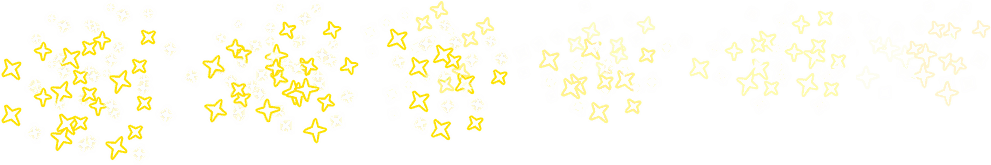
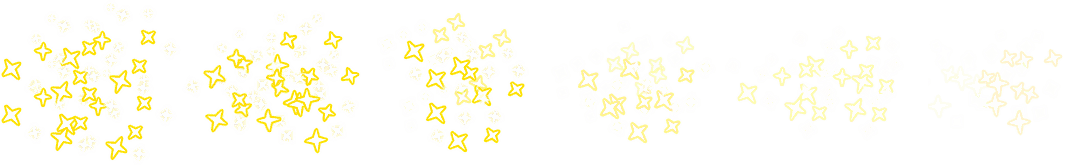
이펙트 효과가 자연스럽게 변경
이펙트에도 속력을 붙여 자연스럽게 변경 (아이템먹엇을경우)

diff --git a/effect.py b/effect.py
@@ -1,5 +1,5 @@
 from pico2d import *
-
+import mygame
 class Effect:
     def __init__(self):
         self.image = load_image("image\\eat_effect_.png")
@@ -7,15 +7,17 @@ class Effect:
         self.x = 0
         self.y = 0
         self.active = False
+        self.velocity = mygame.GRASS_SPEED_PPS
     def enter(self,_x,_y):
         self.x = _x
         self.y = _y
         self.active = True
     def draw(self):
         if self.active :
-            self.image.clip_draw(self.frame * 165,0,165,165,self.x,self.y)
+            self.image.clip_draw(self.frame * 181,0,181,165,self.x,self.y)
     def update(self):
         if self.active :
+            mygame.move_update(self)
             self.frame = (self.frame + 1) % 6
             if self.frame == 5:
                 self.active = False
